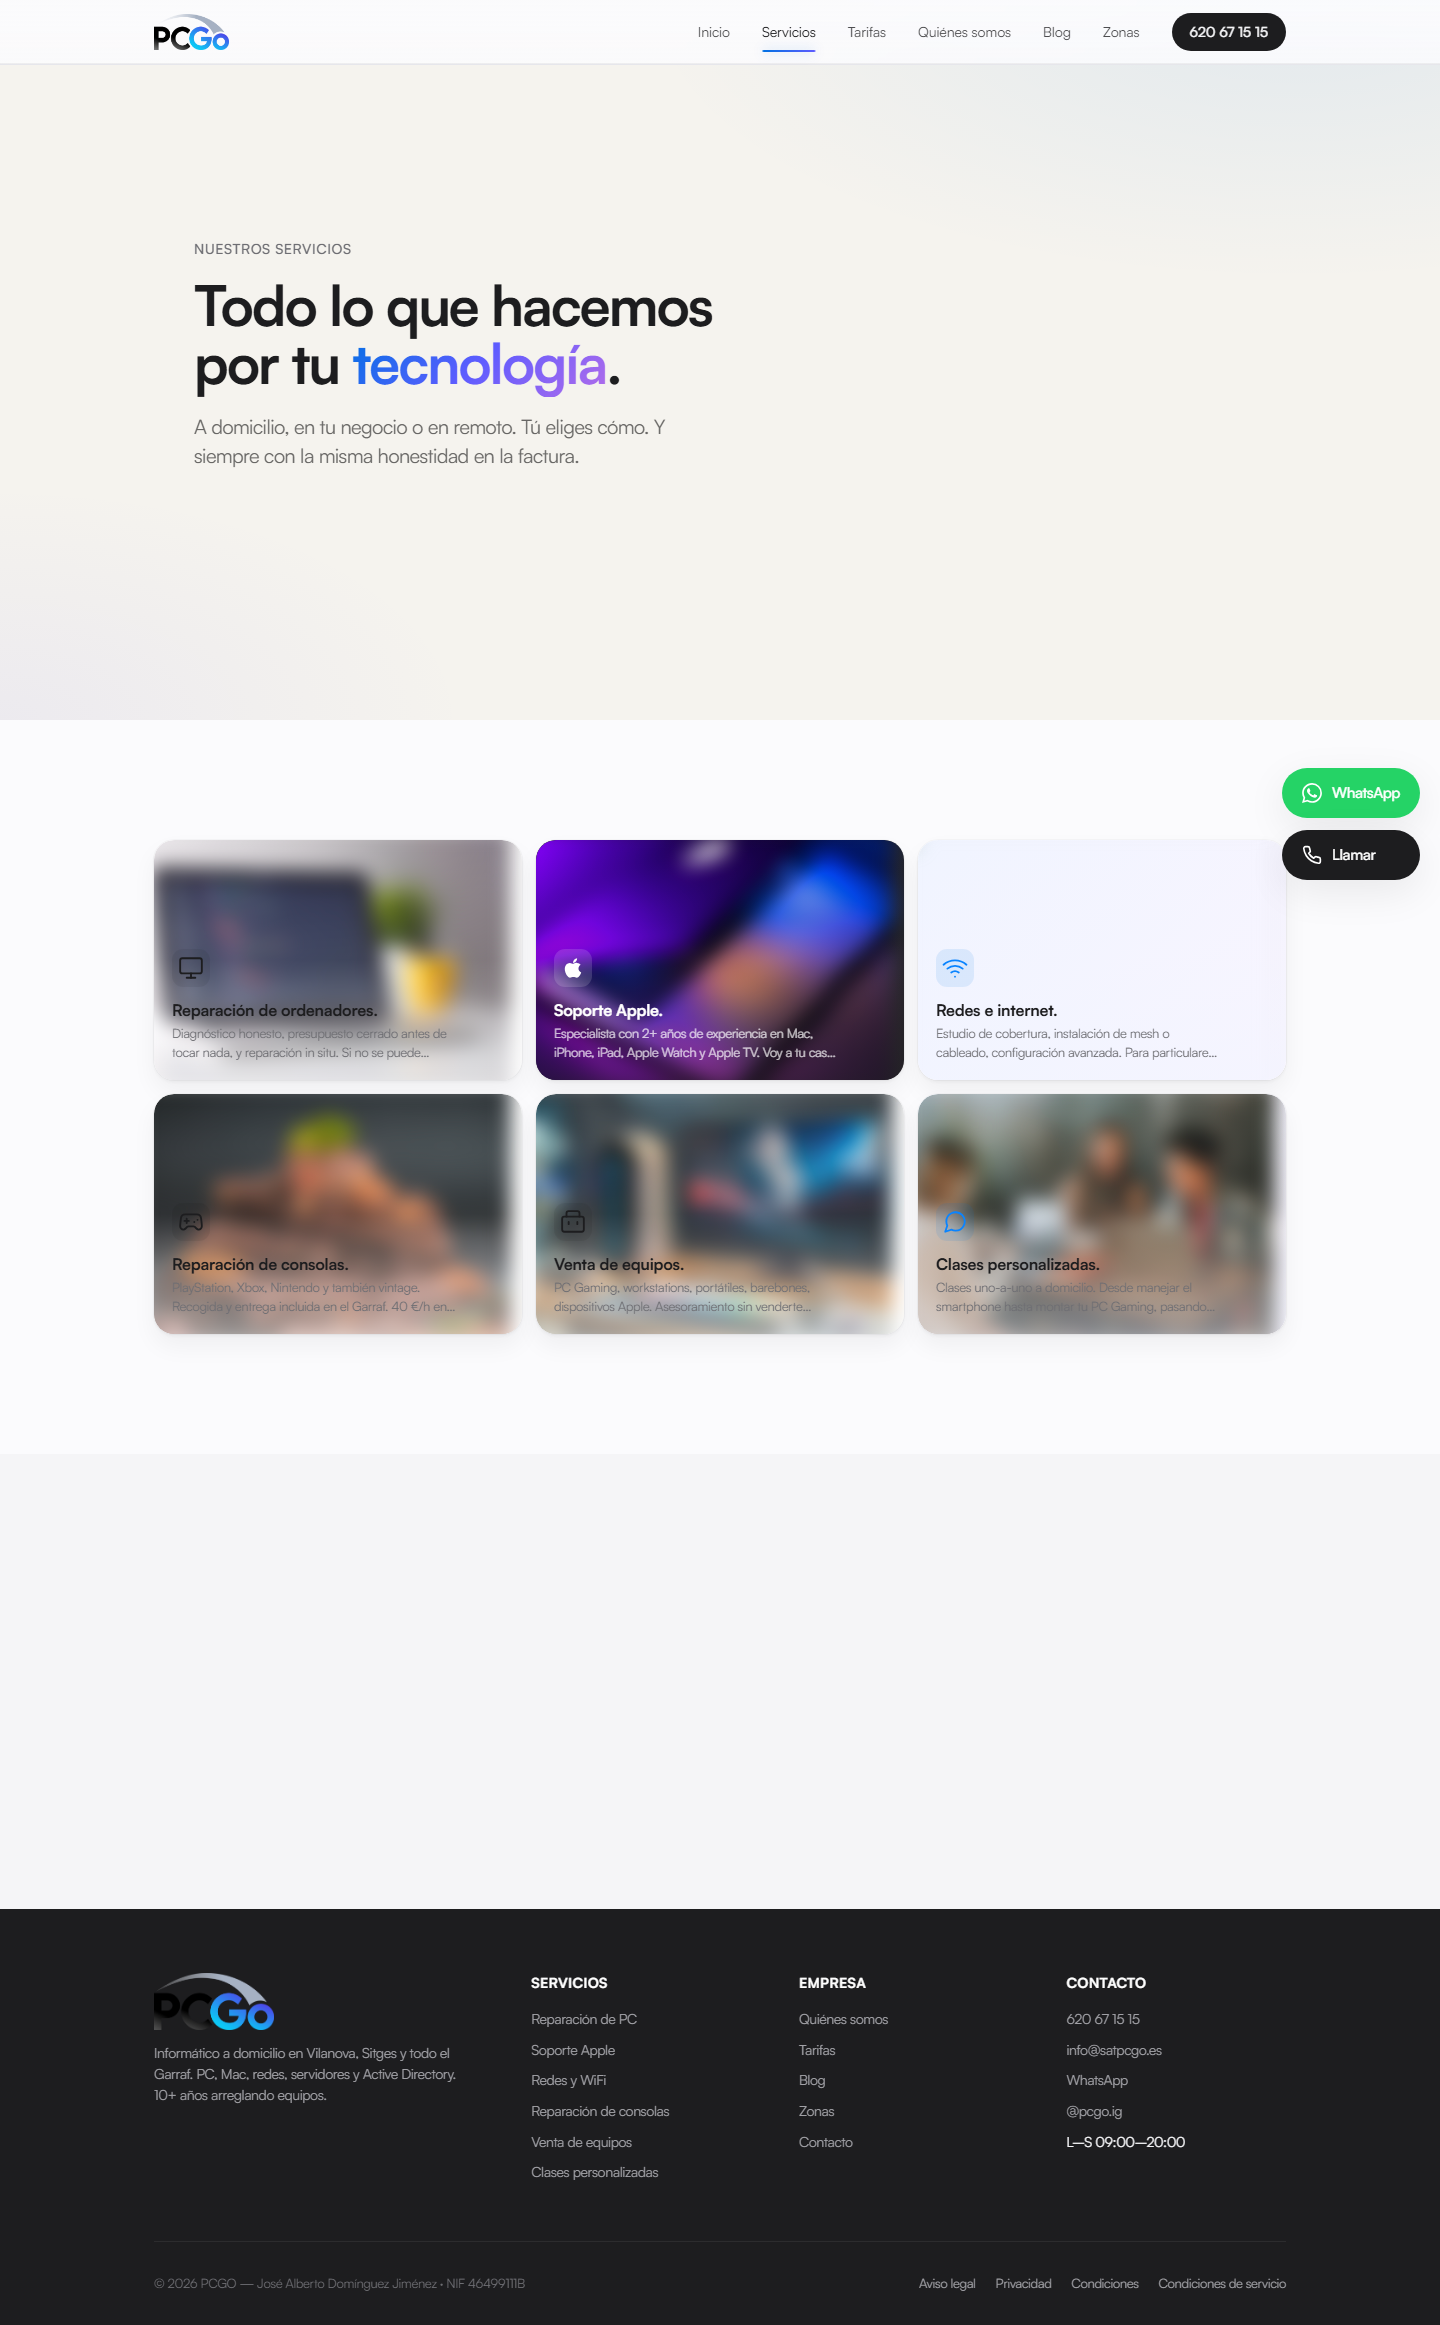
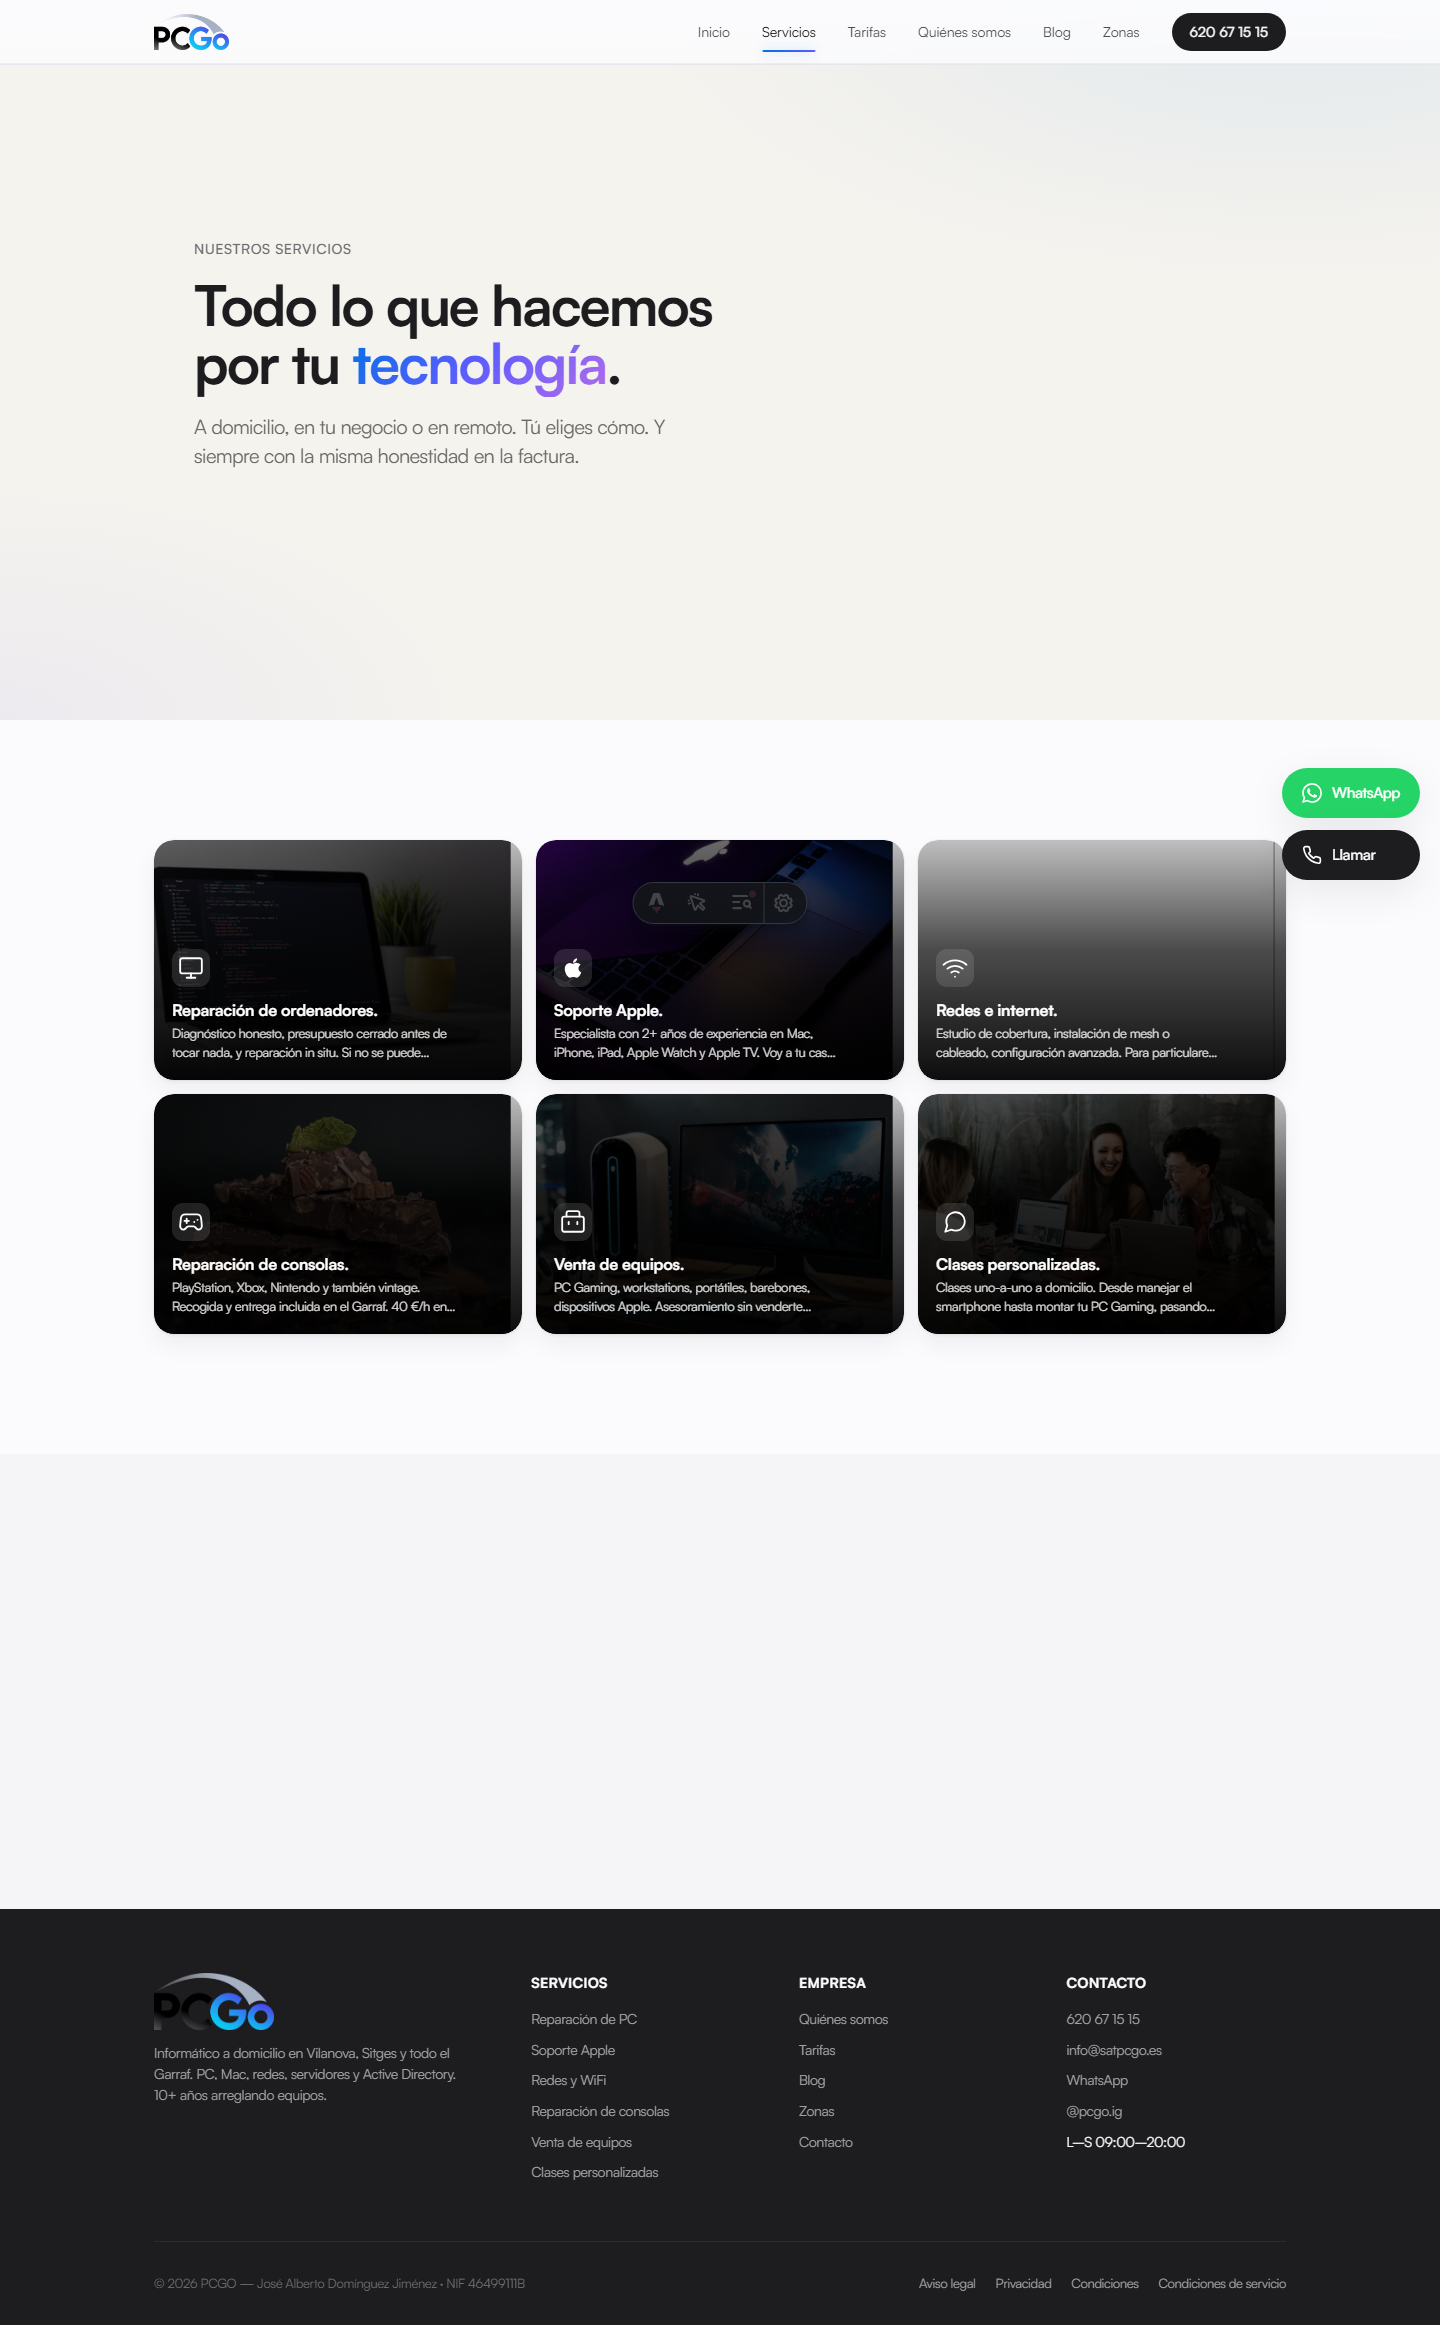
v18: unify bento cards (all bento-card--has-image) + safe sync script
- Drop bento-card--dark/blue/tinted theme system entirely.
  Every card now renders as 'bento-card bento-card--has-image' with the
  same photo+gradient+white-text treatment.
- BentoCard.astro: image is now required, theme prop removed.
- services.ts: theme field removed from all 6 services.
- index.astro / servicios/index.astro: theme prop removed from calls.
- global.css: photo card rules (gradient + white text + icon) now apply to
  all .bento-card--has-image (no exclusions).
- Photo filter: saturate(0.7) brightness(0.55) so bright spots in
  placeholder photos (windows, white desks) don't shout through.
- scripts/sync-css.mjs: now safe by default. Tracks last-synced SHA-256
  in .sync-css-hash (gitignored) and ABORTS if public/global.css has
  manual edits since the last sync. Pass --force to overwrite.
- .gitignore: ignore .sync-css-hash.

Changed region(s): [[0.0938, 0.3406, 0.9062, 0.5884]]

diff --git a/public/global.css b/public/global.css
@@ -910,11 +910,9 @@ h1, h2, h3, h4, h5 {
 }
 .bento-card__bg img {
   position: absolute;
-  inset: -4%;
   width: 108%;
   height: 108%;
   object-fit: cover;
-  filter: blur(10px) saturate(1.3);
   transform: scale(1.02);
   opacity: 1;
   transition: transform 600ms cubic-bezier(0.22, 0.61, 0.36, 1);
@@ -931,23 +929,27 @@ h1, h2, h3, h4, h5 {
     rgba(255, 255, 255, 0.55) 100%);
   transition: background 400ms var(--ease);
 }
-.bento-card--dark .bento-card__bg-overlay {
+/* Photo cards (always has image now): dark overlay + white text/icons.
+   The brightness filter on the img below tames the photo so bright spots
+   (windows, white desks) don't shout through the gradient. */
+.bento-card--has-image .bento-card__bg-overlay {
   background: linear-gradient(180deg,
-    rgba(29, 29, 31, 0.05) 0%,
-    rgba(29, 29, 31, 0.2) 50%,
-    rgba(29, 29, 31, 0.55) 100%);
+    rgba(0, 0, 0, 0.25) 0%,
+    rgba(0, 0, 0, 0.7) 45%,
+    rgba(0, 0, 0, 0.95) 100%);
 }
-.bento-card--blue .bento-card__bg-overlay {
-  background: linear-gradient(180deg,
-    rgba(0, 113, 227, 0.05) 0%,
-    rgba(0, 113, 227, 0.2) 50%,
-    rgba(0, 113, 227, 0.5) 100%);
+.bento-card--has-image .bento-card__name {
+  color: #ffffff;
 }
-.bento-card--tinted .bento-card__bg-overlay {
-  background: linear-gradient(180deg,
-    rgba(240, 244, 255, 0.05) 0%,
-    rgba(240, 244, 255, 0.2) 50%,
-    rgba(240, 244, 255, 0.55) 100%);
+.bento-card--has-image .bento-card__desc {
+  color: rgba(255, 255, 255, 0.85);
+}
+.bento-card--has-image .bento-card__cta {
+  color: #ffffff;
+}
+.bento-card--has-image .bento-card__icon {
+  background: rgba(255, 255, 255, 0.12);
+  color: #ffffff;
 }
 .bento-card:hover .bento-card__bg img { transform: scale(1.06); }
 
@@ -1014,7 +1016,7 @@ h1, h2, h3, h4, h5 {
   font-size: 14px;
   font-weight: 500;
   text-decoration: none;
-  background: linear-gradient(180deg, rgba(255, 255, 255, 0) 0%, rgba(255, 255, 255, 0.95) 30%, #ffffff 100%);
+  background: linear-gradient(180deg, rgba(255, 255, 255, 0) 0%);
   opacity: 0;
   transform: translateY(2.5rem);
   transition:
@@ -1042,42 +1044,7 @@ h1, h2, h3, h4, h5 {
 }
 .bento-card:hover .bento-card__overlay { opacity: 1; }
 
-/* Themes */
-.bento-card--dark {
-  background: linear-gradient(135deg, #1d1d1f 0%, #2c2c2e 100%);
-}
-.bento-card--dark .bento-card__icon {
-  background: rgba(255, 255, 255, 0.15);
-  color: #ffffff;
-}
-.bento-card--dark .bento-card__name { color: #ffffff; }
-.bento-card--dark .bento-card__desc { color: rgba(255, 255, 255, 0.75); }
-.bento-card--dark .bento-card__cta {
-  color: #ffffff;
-  background: linear-gradient(180deg, rgba(29, 29, 31, 0) 0%, rgba(29, 29, 31, 0.95) 30%, #1d1d1f 100%);
-}
-
-.bento-card--blue {
-  background: linear-gradient(135deg, #0071e3 0%, #5e5cff 100%);
-}
-.bento-card--blue .bento-card__icon {
-  background: rgba(255, 255, 255, 0.18);
-  color: #ffffff;
-}
-.bento-card--blue .bento-card__name { color: #ffffff; }
-.bento-card--blue .bento-card__desc { color: rgba(255, 255, 255, 0.85); }
-.bento-card--blue .bento-card__cta {
-  color: #ffffff;
-  background: linear-gradient(180deg, rgba(0, 113, 227, 0) 0%, rgba(0, 113, 227, 0.95) 30%, #0071e3 100%);
-}
-
-.bento-card--tinted {
-  background: linear-gradient(135deg, #f0f4ff 0%, #faf5ff 100%);
-}
-.bento-card--tinted .bento-card__icon {
-  background: rgba(0, 113, 227, 0.1);
-  color: #0a84ff;
-}
+/* Themes removed — all cards now share the same photo treatment via .bento-card--has-image. */
 
 @media (prefers-reduced-motion: reduce) {
   .bento-card__content,

diff --git a/src/styles/global.css b/src/styles/global.css
@@ -910,11 +910,9 @@ h1, h2, h3, h4, h5 {
 }
 .bento-card__bg img {
   position: absolute;
-  inset: -4%;
   width: 108%;
   height: 108%;
   object-fit: cover;
-  filter: blur(10px) saturate(1.3);
   transform: scale(1.02);
   opacity: 1;
   transition: transform 600ms cubic-bezier(0.22, 0.61, 0.36, 1);
@@ -931,23 +929,27 @@ h1, h2, h3, h4, h5 {
     rgba(255, 255, 255, 0.55) 100%);
   transition: background 400ms var(--ease);
 }
-.bento-card--dark .bento-card__bg-overlay {
+/* Photo cards (always has image now): dark overlay + white text/icons.
+   The brightness filter on the img below tames the photo so bright spots
+   (windows, white desks) don't shout through the gradient. */
+.bento-card--has-image .bento-card__bg-overlay {
   background: linear-gradient(180deg,
-    rgba(29, 29, 31, 0.05) 0%,
-    rgba(29, 29, 31, 0.2) 50%,
-    rgba(29, 29, 31, 0.55) 100%);
+    rgba(0, 0, 0, 0.25) 0%,
+    rgba(0, 0, 0, 0.7) 45%,
+    rgba(0, 0, 0, 0.95) 100%);
 }
-.bento-card--blue .bento-card__bg-overlay {
-  background: linear-gradient(180deg,
-    rgba(0, 113, 227, 0.05) 0%,
-    rgba(0, 113, 227, 0.2) 50%,
-    rgba(0, 113, 227, 0.5) 100%);
+.bento-card--has-image .bento-card__name {
+  color: #ffffff;
 }
-.bento-card--tinted .bento-card__bg-overlay {
-  background: linear-gradient(180deg,
-    rgba(240, 244, 255, 0.05) 0%,
-    rgba(240, 244, 255, 0.2) 50%,
-    rgba(240, 244, 255, 0.55) 100%);
+.bento-card--has-image .bento-card__desc {
+  color: rgba(255, 255, 255, 0.85);
+}
+.bento-card--has-image .bento-card__cta {
+  color: #ffffff;
+}
+.bento-card--has-image .bento-card__icon {
+  background: rgba(255, 255, 255, 0.12);
+  color: #ffffff;
 }
 .bento-card:hover .bento-card__bg img { transform: scale(1.06); }
 
@@ -1014,7 +1016,7 @@ h1, h2, h3, h4, h5 {
   font-size: 14px;
   font-weight: 500;
   text-decoration: none;
-  background: linear-gradient(180deg, rgba(255, 255, 255, 0) 0%, rgba(255, 255, 255, 0.95) 30%, #ffffff 100%);
+  background: linear-gradient(180deg, rgba(255, 255, 255, 0) 0%);
   opacity: 0;
   transform: translateY(2.5rem);
   transition:
@@ -1042,42 +1044,7 @@ h1, h2, h3, h4, h5 {
 }
 .bento-card:hover .bento-card__overlay { opacity: 1; }
 
-/* Themes */
-.bento-card--dark {
-  background: linear-gradient(135deg, #1d1d1f 0%, #2c2c2e 100%);
-}
-.bento-card--dark .bento-card__icon {
-  background: rgba(255, 255, 255, 0.15);
-  color: #ffffff;
-}
-.bento-card--dark .bento-card__name { color: #ffffff; }
-.bento-card--dark .bento-card__desc { color: rgba(255, 255, 255, 0.75); }
-.bento-card--dark .bento-card__cta {
-  color: #ffffff;
-  background: linear-gradient(180deg, rgba(29, 29, 31, 0) 0%, rgba(29, 29, 31, 0.95) 30%, #1d1d1f 100%);
-}
-
-.bento-card--blue {
-  background: linear-gradient(135deg, #0071e3 0%, #5e5cff 100%);
-}
-.bento-card--blue .bento-card__icon {
-  background: rgba(255, 255, 255, 0.18);
-  color: #ffffff;
-}
-.bento-card--blue .bento-card__name { color: #ffffff; }
-.bento-card--blue .bento-card__desc { color: rgba(255, 255, 255, 0.85); }
-.bento-card--blue .bento-card__cta {
-  color: #ffffff;
-  background: linear-gradient(180deg, rgba(0, 113, 227, 0) 0%, rgba(0, 113, 227, 0.95) 30%, #0071e3 100%);
-}
-
-.bento-card--tinted {
-  background: linear-gradient(135deg, #f0f4ff 0%, #faf5ff 100%);
-}
-.bento-card--tinted .bento-card__icon {
-  background: rgba(0, 113, 227, 0.1);
-  color: #0a84ff;
-}
+/* Themes removed — all cards now share the same photo treatment via .bento-card--has-image. */
 
 @media (prefers-reduced-motion: reduce) {
   .bento-card__content,

diff --git a/src/data/services.ts b/src/data/services.ts
@@ -12,10 +12,8 @@ export type Service = {
   faqs: { q: string; a: string }[];
   /** SVG path data for the icon (single-color stroke style, Apple-SF-Symbols-like) */
   icon: 'pc' | 'apple' | 'wifi' | 'box' | 'console' | 'chat';
-  /** Unsplash photo URL used as a heavily-blurred card background. */
+  /** Photo URL used as a dimmed background for the card. */
   image: string;
-  /** Card color theme for the Servicios page bento. */
-  theme: 'default' | 'dark' | 'blue' | 'tinted';
   /** Optional layout class for the bento grid (e.g. col-span-2 row-span-2). */
   span?: string;
 };
@@ -34,7 +32,6 @@ export const services: Service[] = [
     serviceType: 'Reparación de ordenadores PC y Mac',
     icon: 'pc',
     image: 'https://images.unsplash.com/photo-1517694712202-14dd9538aa97?w=900&q=80&auto=format&fit=crop',
-    theme: 'default',
     faqs: [
       {
         q: '¿Cuánto tarda una reparación típica?',
@@ -67,7 +64,6 @@ export const services: Service[] = [
     serviceType: 'Soporte técnico Apple',
     icon: 'apple',
     image: 'https://images.unsplash.com/photo-1517336714731-489689fd1ca8?w=900&q=80&auto=format&fit=crop',
-    theme: 'dark',
     faqs: [
       {
         q: '¿Hacéis reparaciones de hardware de Mac e iPhone?',
@@ -100,7 +96,6 @@ export const services: Service[] = [
     serviceType: 'Instalación y mejora de redes WiFi',
     icon: 'wifi',
     image: 'https://images.unsplash.com/photo-1544197150-b99a580bb7a0?w=900&q=80&auto=format&fit=crop',
-    theme: 'tinted',
     faqs: [
       {
         q: '¿Cuánto cuesta mejorar la WiFi de mi casa?',
@@ -133,7 +128,6 @@ export const services: Service[] = [
     serviceType: 'Reparación de consolas y equipos gaming',
     icon: 'console',
     image: 'https://images.unsplash.com/photo-1606312619070-d48b4c652a52?w=900&q=80&auto=format&fit=crop',
-    theme: 'default',
     faqs: [
       {
         q: '¿Cuánto cuesta cambiar la pasta térmica de una PS5?',
@@ -166,7 +160,6 @@ export const services: Service[] = [
     serviceType: 'Venta de equipos a medida',
     icon: 'box',
     image: 'https://images.unsplash.com/photo-1593640408182-31c70c8268f5?w=900&q=80&auto=format&fit=crop',
-    theme: 'default',
     faqs: [
       {
         q: '¿Vendéis componentes sueltos?',
@@ -199,7 +192,6 @@ export const services: Service[] = [
     serviceType: 'Clases de informática personalizadas',
     icon: 'chat',
     image: 'https://images.unsplash.com/photo-1522202176988-66273c2fd55f?w=900&q=80&auto=format&fit=crop',
-    theme: 'tinted',
     faqs: [
       {
         q: '¿Cuánto dura cada clase?',
@@ -226,3 +218,4 @@ export function getService(slug: string): Service | undefined {
 }
 
 export { site };
+

diff --git a/tools/capture_v17.py b/tools/capture_v17.py
@@ -4,7 +4,7 @@ from playwright.sync_api import sync_playwright
 
 SHOTS = Path(r"C:\Users\puchu\.mavis\workspace\satpcgo-rebuild\previews-v17")
 SHOTS.mkdir(exist_ok=True)
-BASE = "http://localhost:14324"
+BASE = "http://localhost:14321"
 
 PAGES = [
     ("/servicios", "v17-servicios-cards.png", None, True,  None),
